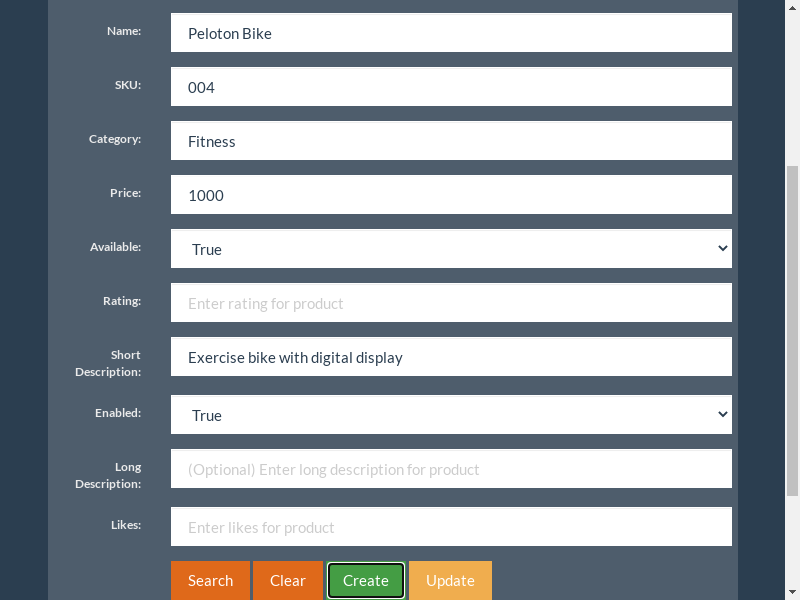
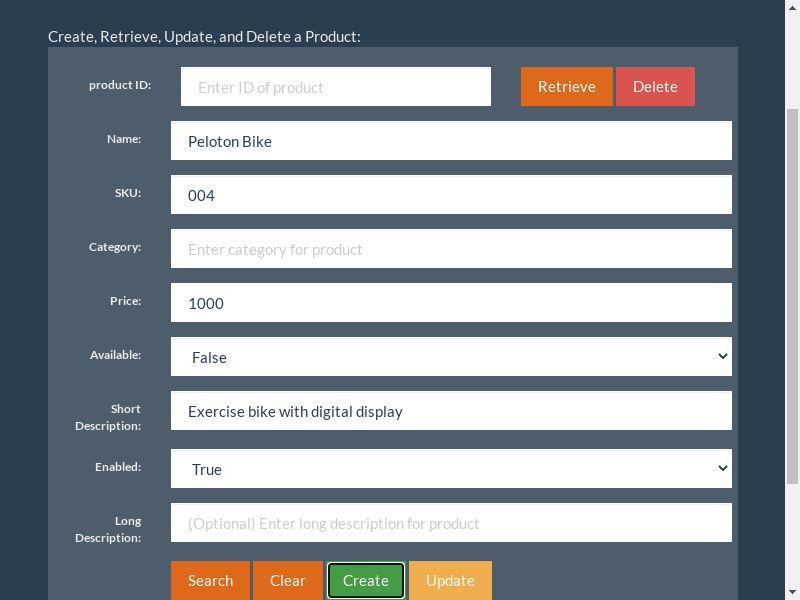
list all products BDD test working

diff --git a/service/static/index.html b/service/static/index.html
@@ -73,12 +73,12 @@
                   </select>
                 </div>
               </div>
-              <div class="form-group">
+              <!-- <div class="form-group">
                 <label class="control-label col-sm-2" for="product_rating">Rating:</label>
                 <div class="col-sm-10">
                   <input type="text" class="form-control" id="product_rating" placeholder="Enter rating for product">
                 </div>
-              </div>
+              </div> -->
               <div class="form-group">
                 <label class="control-label col-sm-2" for="product_short_description">Short Description:</label>
                 <div class="col-sm-10">
@@ -100,12 +100,12 @@
                   <input type="text" class="form-control" id="product_long_description" placeholder="(Optional) Enter long description for product">
                 </div>
               </div>
-              <div class="form-group">
+              <!-- <div class="form-group">
                 <label class="control-label col-sm-2" for="product_likes">Likes:</label>
                 <div class="col-sm-10">
                   <input type="text" class="form-control" id="product_likes" placeholder="Enter likes for product">
                 </div>
-              </div>
+              </div> -->
               <div class="form-group">
                 <div class="col-sm-offset-2 col-sm-10">
                   <button type="submit" class="btn btn-primary" id="search-btn">Search</button>
